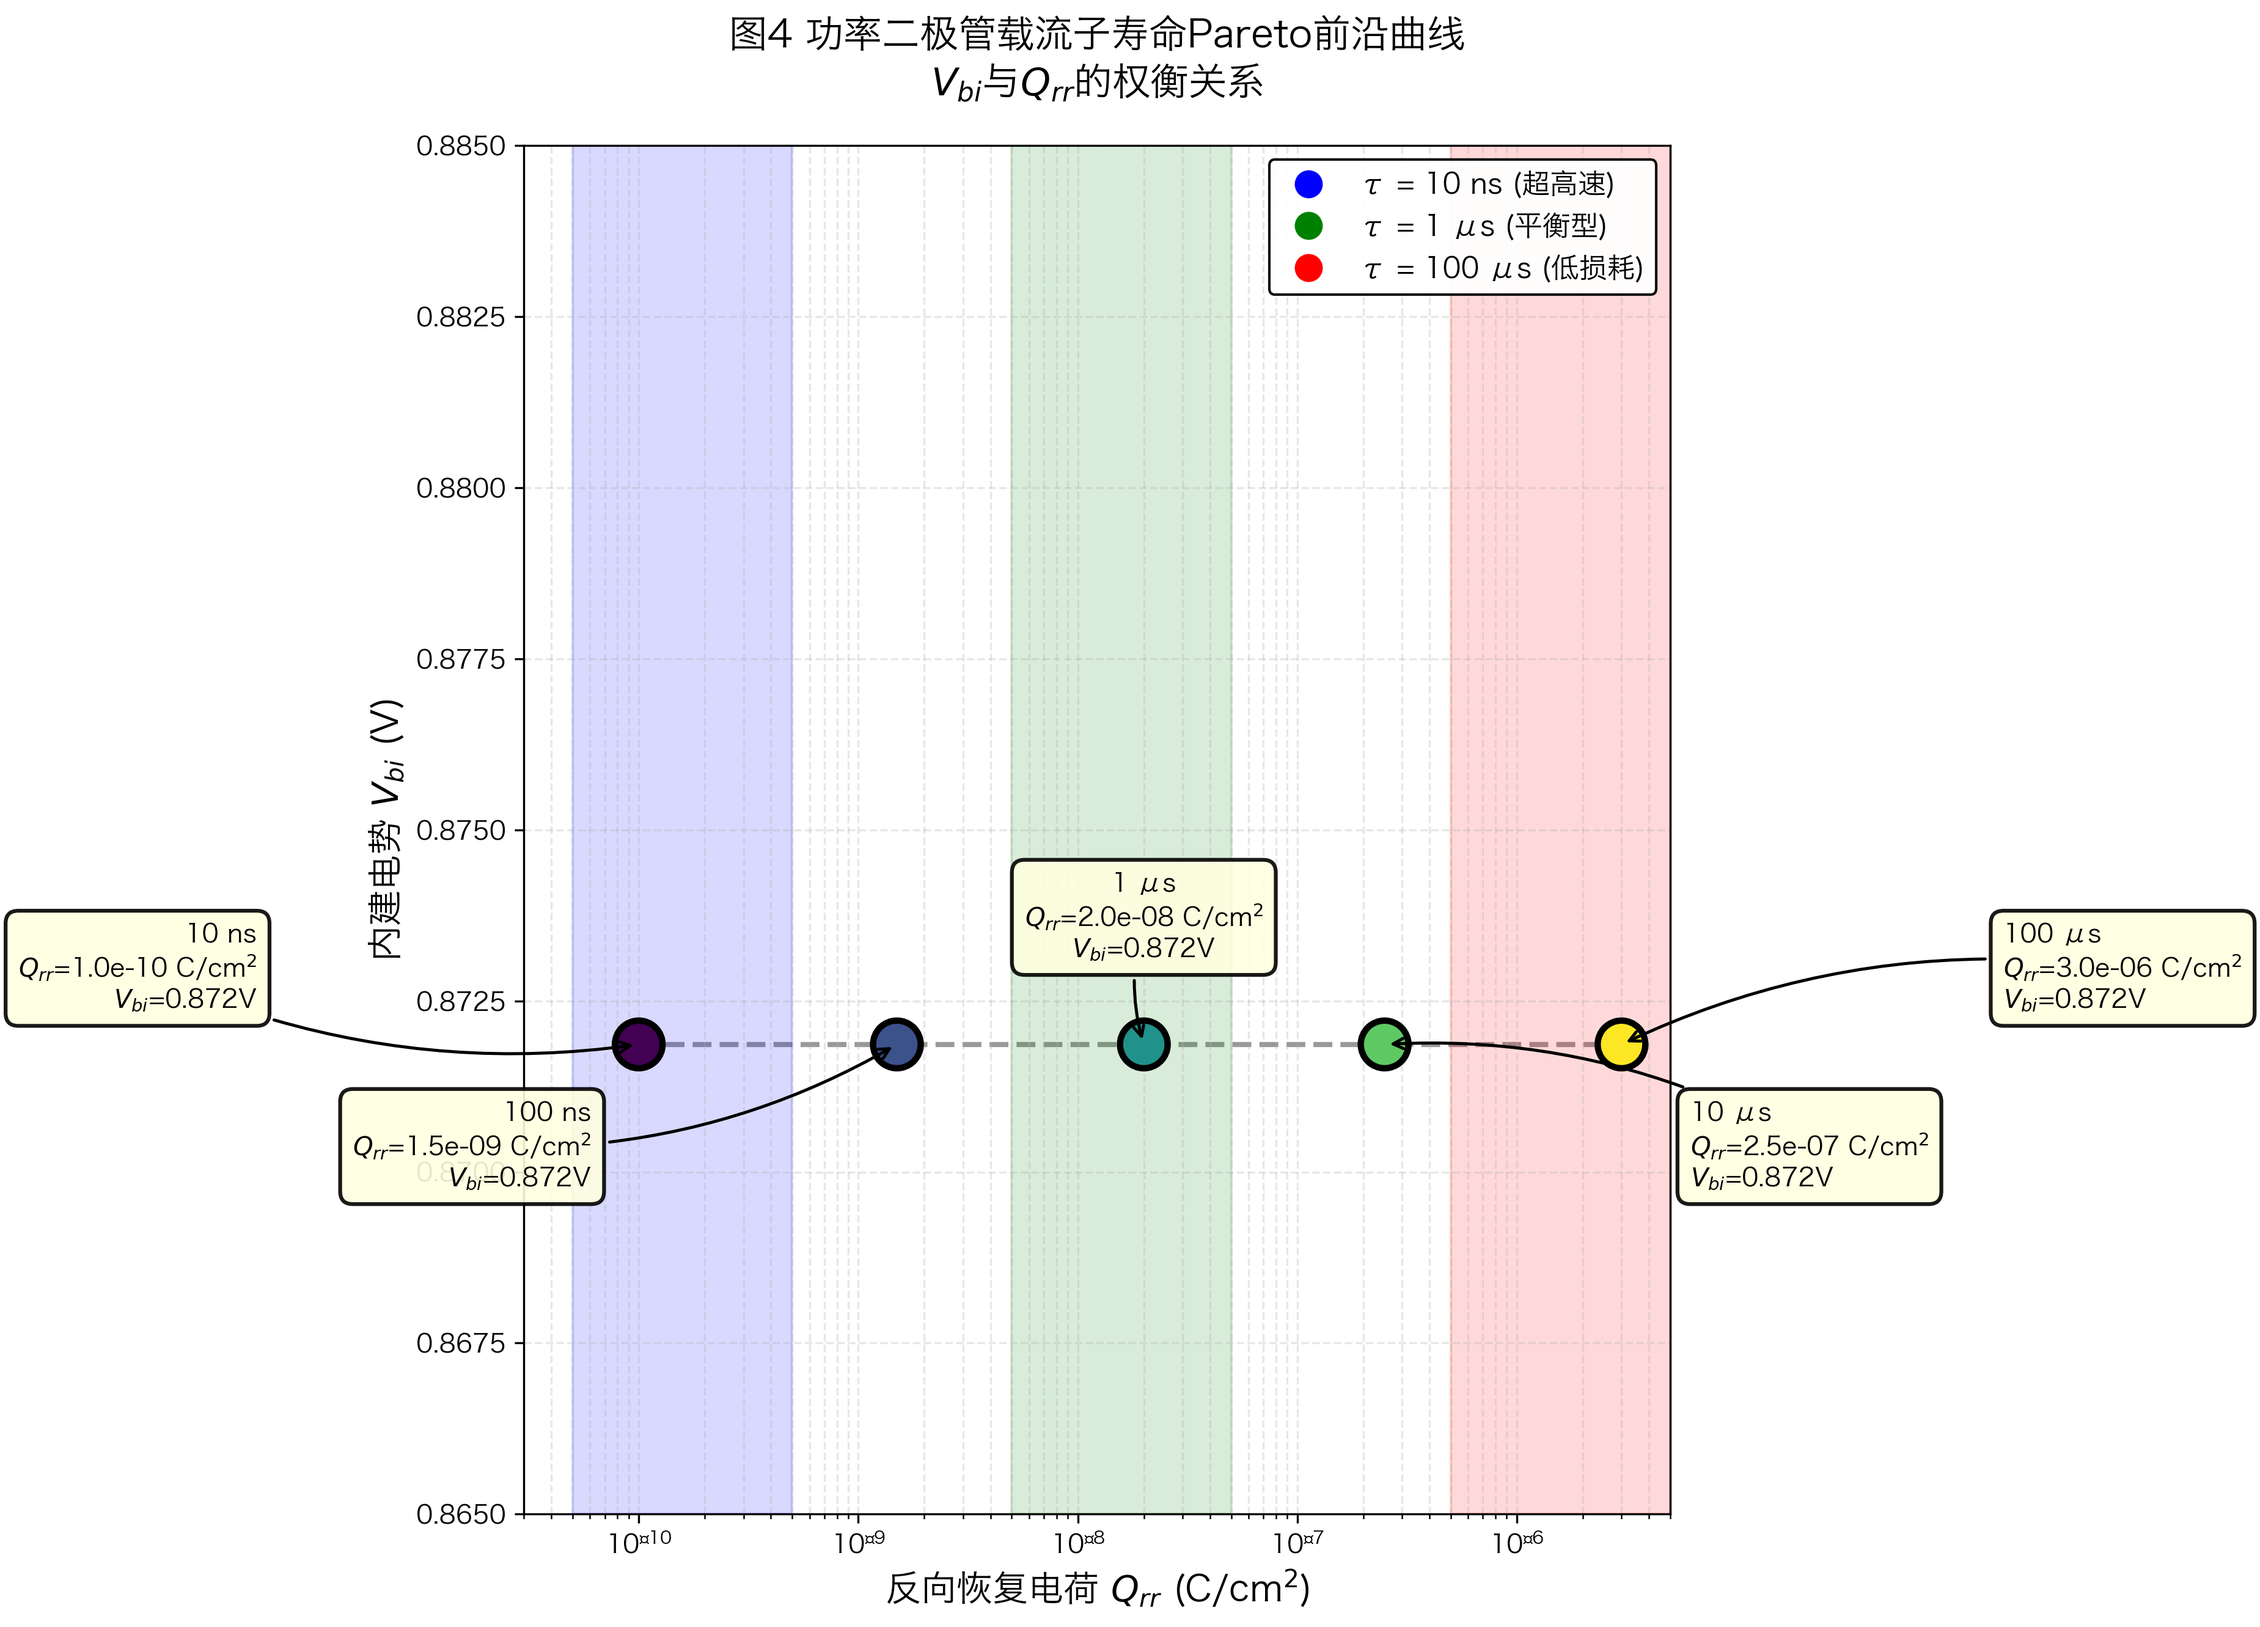
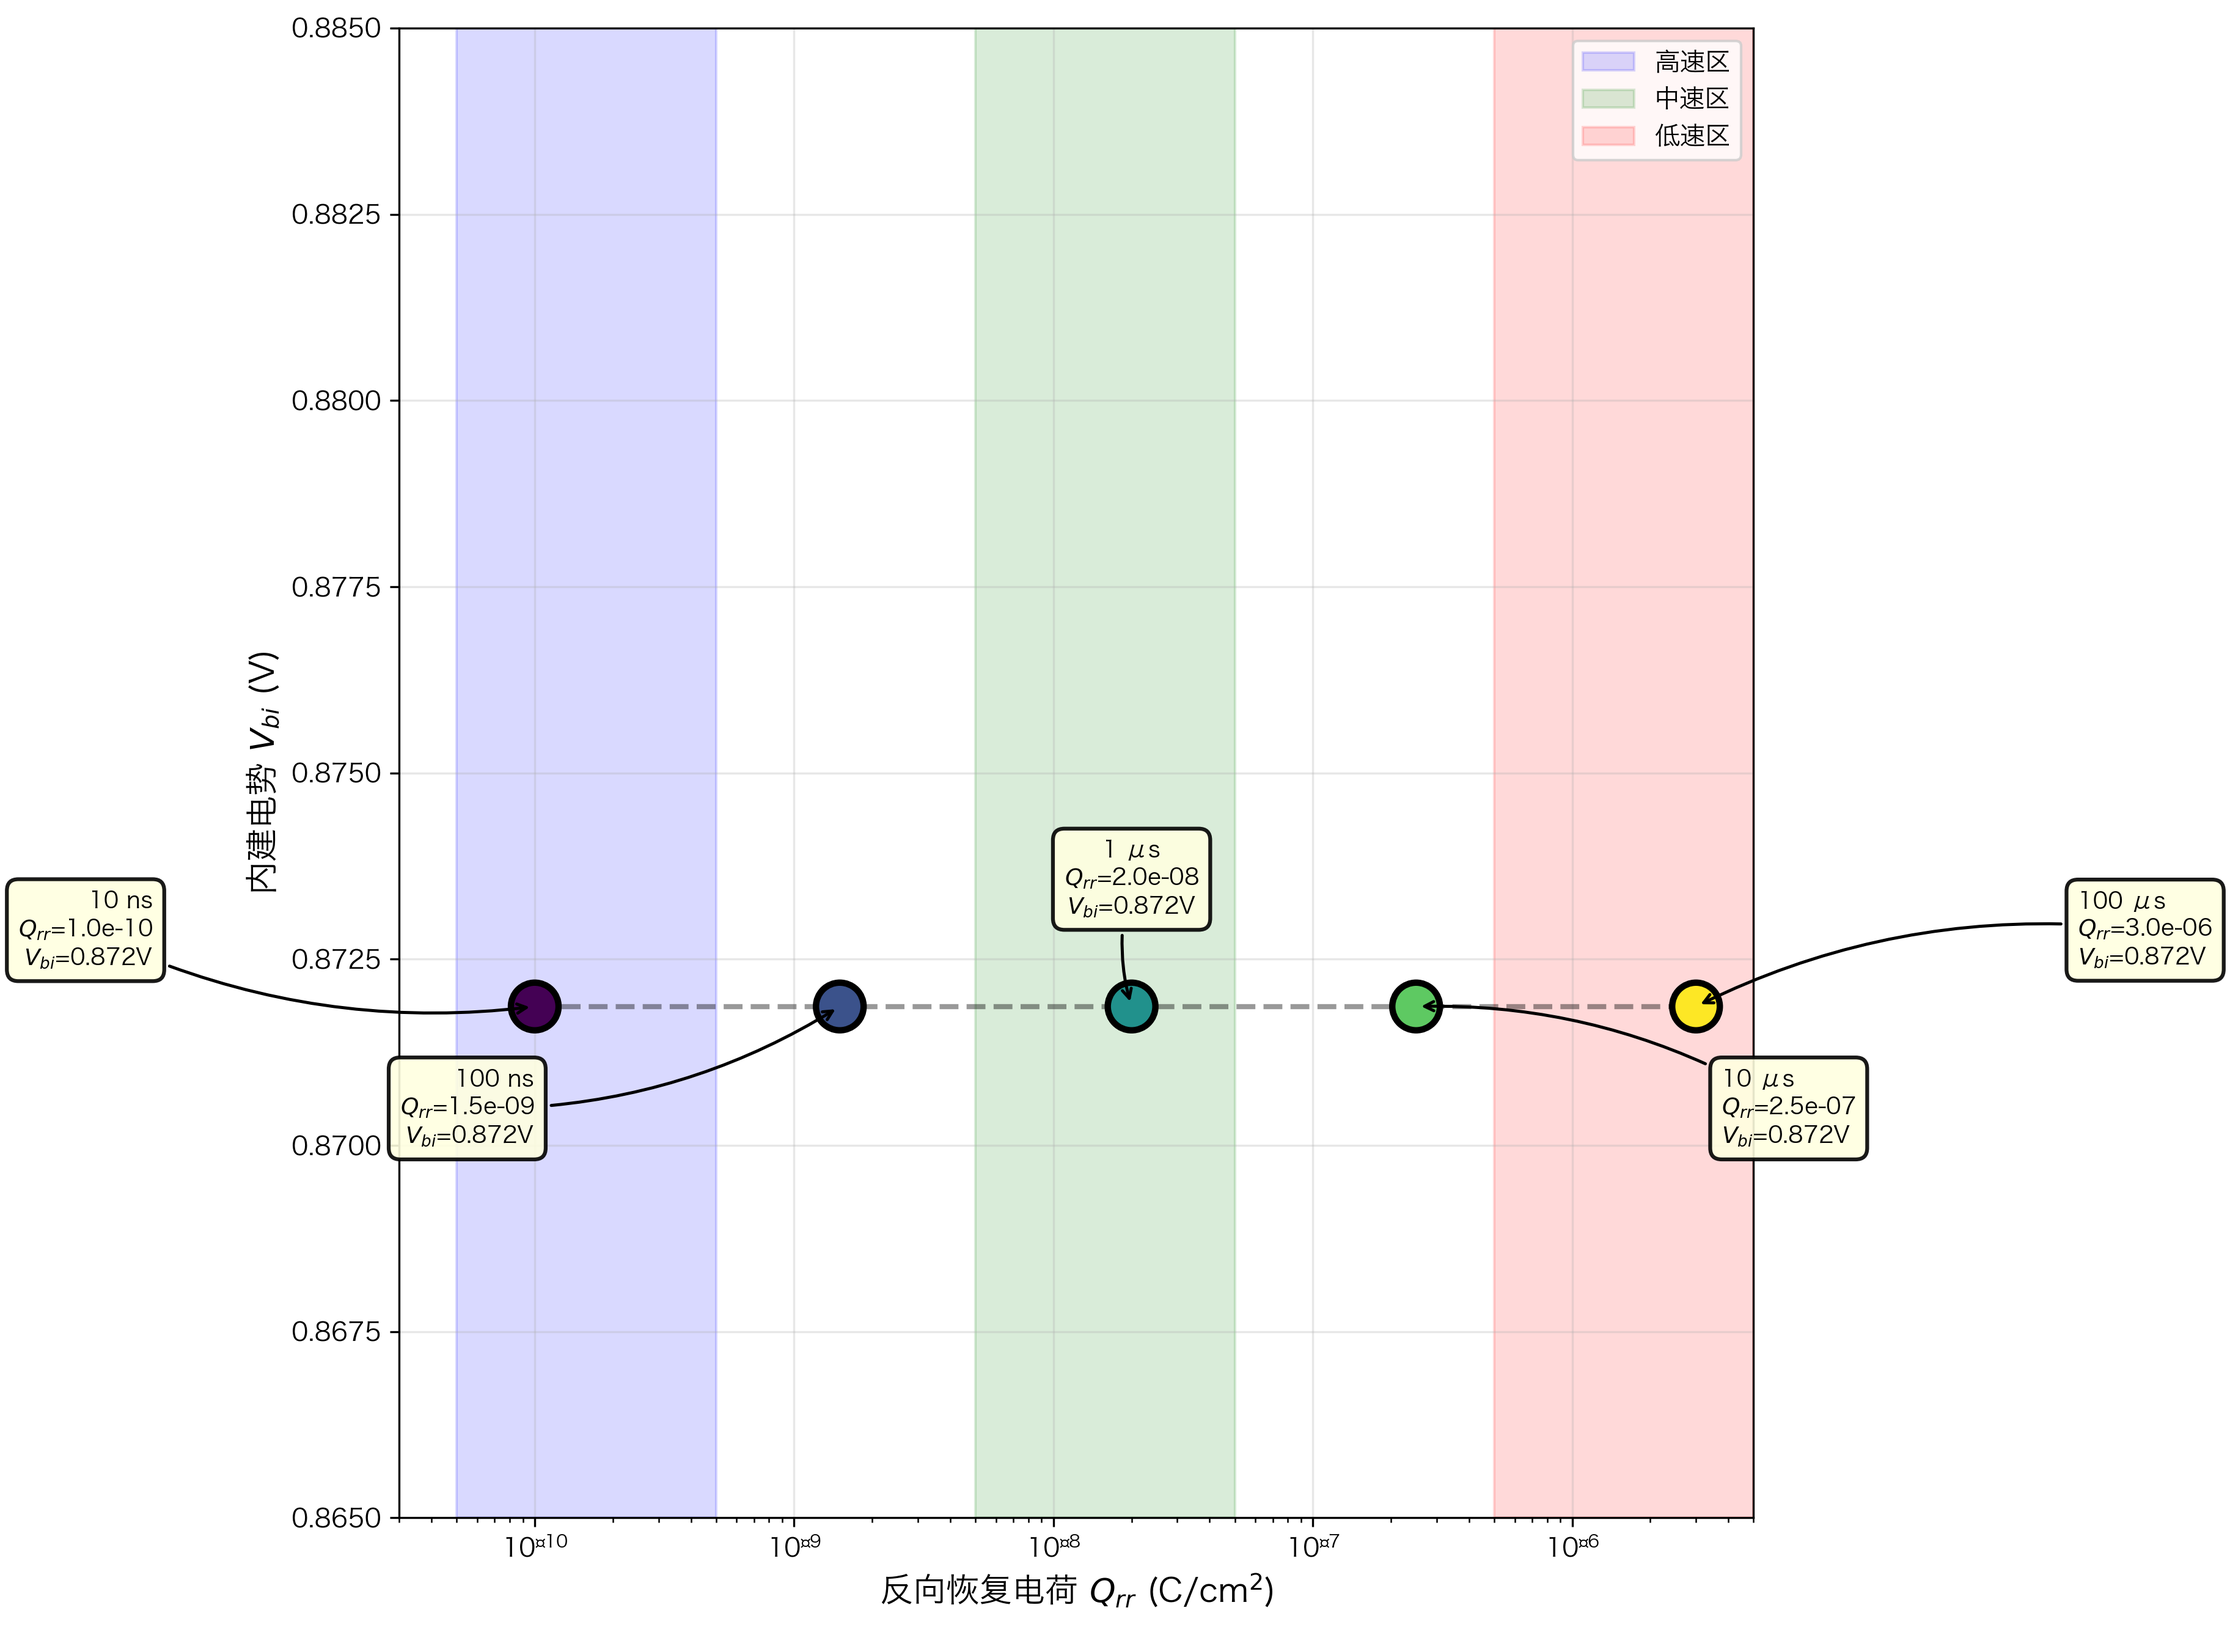
Regenerate all figures without embedded titles
- Removed all matplotlib set_title() calls from figure generation
- Figures now only contain axis labels and data, no titles
- Titles are exclusively in draft.md as Markdown captions
- This allows proper LaTeX figure caption formatting
- Updated regenerate_figures_no_title.py script

Changed region(s): [[0.125, 0.0, 0.8748, 0.9977], [0.0, 0.4677, 0.125, 0.6548], [0.8435, 0.5301, 0.9997, 0.6548]]

diff --git a/workspace/plan1/regenerate_figures_no_title.py b/workspace/plan1/regenerate_figures_no_title.py
@@ -1,0 +1,262 @@
+#!/usr/bin/env python3
+"""
+重新生成论文图表 - 去掉 matplotlib 中的标题，标题只在 Markdown 中
+"""
+
+import sys
+import os
+import numpy as np
+import matplotlib.pyplot as plt
+import json
+
+# 设置中文字体
+plt.rcParams['font.sans-serif'] = ['Hiragino Sans GB', 'SimHei', 'DejaVu Sans']
+plt.rcParams['axes.unicode_minus'] = False
+
+# 读取数据
+with open('data/final/lifetime_results.json', 'r') as f:
+    lifetime_results = json.load(f)
+
+with open('data/final/doping_results.json', 'r') as f:
+    doping_results = json.load(f)
+
+print("重新生成论文图表（去掉标题，只保留坐标轴标签）...")
+
+# ============================================
+# 图1：一维PN结二极管结构示意图
+# ============================================
+fig, ax = plt.subplots(figsize=(10, 6))
+
+# P+区
+p_region = plt.Rectangle((0, 0), 0.4, 1, linewidth=2, 
+                         edgecolor='black', facecolor='lightblue', alpha=0.7)
+ax.add_patch(p_region)
+ax.text(0.2, 0.5, 'P+\n$N_A = 10^{16}-10^{18}$ cm$^{-3}$', 
+        ha='center', va='center', fontsize=11, fontweight='bold')
+
+# N区
+n_region = plt.Rectangle((0.4, 0), 0.6, 1, linewidth=2, 
+                         edgecolor='black', facecolor='lightyellow', alpha=0.7)
+ax.add_patch(n_region)
+ax.text(0.7, 0.5, 'N\n$N_D = 10^{19}$ cm$^{-3}$', 
+        ha='center', va='center', fontsize=11, fontweight='bold')
+
+# 结位置
+ax.axvline(x=0.4, color='red', linewidth=3, linestyle='--')
+ax.text(0.4, 1.05, 'PN结', ha='center', fontsize=10, color='red', fontweight='bold')
+
+# 电极
+ax.plot([0, 0], [0.3, 0.7], 'k-', linewidth=4)
+ax.text(-0.05, 0.5, '阳极\n(A)', ha='right', va='center', fontsize=10, fontweight='bold')
+ax.plot([1, 1], [0.3, 0.7], 'k-', linewidth=4)
+ax.text(1.05, 0.5, '阴极\n(K)', ha='left', va='center', fontsize=10, fontweight='bold')
+
+# 尺寸标注
+ax.annotate('', xy=(0, -0.1), xytext=(1, -0.1),
+            arrowprops=dict(arrowstyle='<->', color='black', lw=2))
+ax.text(0.5, -0.15, '100 μm', ha='center', fontsize=10)
+
+ax.set_xlim(-0.15, 1.15)
+ax.set_ylim(-0.25, 1.2)
+ax.set_aspect('equal')
+ax.axis('off')
+# 不设置标题！标题在 Markdown 中
+
+plt.tight_layout()
+plt.savefig('figures/final/fig1_structure.png', dpi=300, bbox_inches='tight')
+print("✓ 图1（无标题）: fig1_structure.png")
+plt.close()
+
+# ============================================
+# 图2：载流子寿命影响（4子图，无总标题）
+# ============================================
+fig, axes = plt.subplots(2, 2, figsize=(14, 12))
+
+taus = [r['tau'] for r in lifetime_results]
+vfs = [r['vf'] for r in lifetime_results]
+currents = [r['current_density_A_cm2'] for r in lifetime_results]
+rons = [r['r_on_ohm_cm2'] for r in lifetime_results]
+qrrs = [r['qrr_C_cm2'] for r in lifetime_results]
+
+# (a) 内建电势
+ax = axes[0, 0]
+ax.semilogx(taus, vfs, 'bo-', linewidth=2.5, markersize=10)
+ax.set_xlabel('载流子寿命 τ (s)', fontsize=12)
+ax.set_ylabel('内建电势 $V_{bi}$ (V)', fontsize=12)
+ax.text(0.05, 0.95, '(a)', transform=ax.transAxes, fontsize=14, fontweight='bold')
+ax.grid(True, alpha=0.4)
+ax.set_ylim([0.85, 0.90])
+
+# (b) 正向电流密度
+ax = axes[0, 1]
+ax.loglog(taus, currents, 'rs-', linewidth=2.5, markersize=10)
+ax.set_xlabel('载流子寿命 τ (s)', fontsize=12)
+ax.set_ylabel('正向电流密度 $J_F$ (A/cm$^2$)', fontsize=12)
+ax.text(0.05, 0.95, '(b)', transform=ax.transAxes, fontsize=14, fontweight='bold')
+ax.grid(True, alpha=0.4)
+
+# (c) 反向恢复电荷
+ax = axes[1, 0]
+ax.loglog(taus, qrrs, 'g^-', linewidth=2.5, markersize=10)
+ax.set_xlabel('载流子寿命 τ (s)', fontsize=12)
+ax.set_ylabel('反向恢复电荷 $Q_{rr}$ (C/cm$^2$)', fontsize=12)
+ax.text(0.05, 0.95, '(c)', transform=ax.transAxes, fontsize=14, fontweight='bold')
+ax.grid(True, alpha=0.4)
+
+# (d) 导通电阻
+ax = axes[1, 1]
+ax.loglog(taus, rons, 'mv-', linewidth=2.5, markersize=10)
+ax.set_xlabel('载流子寿命 τ (s)', fontsize=12)
+ax.set_ylabel('导通电阻 $R_{on}$ (Ω·cm$^2$)', fontsize=12)
+ax.text(0.05, 0.95, '(d)', transform=ax.transAxes, fontsize=14, fontweight='bold')
+ax.grid(True, alpha=0.4)
+
+# 不设置总标题！
+plt.tight_layout()
+plt.savefig('figures/final/fig2_lifetime_effects.png', dpi=300, bbox_inches='tight')
+print("✓ 图2（无总标题）: fig2_lifetime_effects.png")
+plt.close()
+
+# ============================================
+# 图3：掺杂浓度影响（3子图，无总标题）
+# ============================================
+fig, axes = plt.subplots(1, 3, figsize=(18, 6))
+
+dopings = [r['p_doping'] for r in doping_results]
+vbis = [r['V_bi'] for r in doping_results]
+rons_d = [r['r_on_ohm_cm2'] for r in doping_results]
+bvs = [r['breakdown_voltage_V'] for r in doping_results]
+
+# (a) 内建电势
+ax = axes[0]
+ax.semilogx(dopings, vbis, 'co-', linewidth=2.5, markersize=10)
+ax.set_xlabel('P区掺杂浓度 $N_A$ (cm$^{-3}$)', fontsize=12)
+ax.set_ylabel('内建电势 $V_{bi}$ (V)', fontsize=12)
+ax.text(0.05, 0.95, '(a)', transform=ax.transAxes, fontsize=14, fontweight='bold')
+ax.grid(True, alpha=0.4)
+
+# (b) 导通电阻
+ax = axes[1]
+ax.loglog(dopings, rons_d, 'yv-', linewidth=2.5, markersize=10)
+ax.set_xlabel('P区掺杂浓度 $N_A$ (cm$^{-3}$)', fontsize=12)
+ax.set_ylabel('导通电阻 $R_{on}$ (Ω·cm$^2$)', fontsize=12)
+ax.text(0.05, 0.95, '(b)', transform=ax.transAxes, fontsize=14, fontweight='bold')
+ax.grid(True, alpha=0.4)
+
+# (c) 击穿电压
+ax = axes[2]
+ax.loglog(dopings, bvs, 'bs-', linewidth=2.5, markersize=10)
+ax.set_xlabel('P区掺杂浓度 $N_A$ (cm$^{-3}$)', fontsize=12)
+ax.set_ylabel('击穿电压 $BV$ (V)', fontsize=12)
+ax.text(0.05, 0.95, '(c)', transform=ax.transAxes, fontsize=14, fontweight='bold')
+ax.grid(True, alpha=0.4)
+
+# 不设置总标题！
+plt.tight_layout()
+plt.savefig('figures/final/fig3_doping_effects.png', dpi=300, bbox_inches='tight')
+print("✓ 图3（无总标题）: fig3_doping_effects.png")
+plt.close()
+
+# ============================================
+# 图4：Pareto前沿曲线（无标题）
+# ============================================
+fig, ax = plt.subplots(figsize=(12, 9))
+
+qrrs_pareto = [r['qrr_C_cm2'] for r in lifetime_results]
+vfs_pareto = [r['vf'] for r in lifetime_results]
+taus_labels = ['10 ns', '100 ns', '1 μs', '10 μs', '100 μs']
+
+ax.set_xscale('log')
+
+colors = plt.cm.viridis(np.linspace(0, 1, len(taus)))
+scatter = ax.scatter(qrrs_pareto, vfs_pareto, s=350, c=colors, 
+                    edgecolors='black', linewidth=2.5, zorder=5)
+ax.plot(qrrs_pareto, vfs_pareto, 'k--', alpha=0.4, linewidth=2)
+
+# 添加标注
+annotations = [
+    {'idx': 0, 'offset': (-150, 30), 'ha': 'right'},
+    {'idx': 1, 'offset': (-120, -40), 'ha': 'right'},
+    {'idx': 2, 'offset': (0, 50), 'ha': 'center'},
+    {'idx': 3, 'offset': (120, -40), 'ha': 'left'},
+    {'idx': 4, 'offset': (150, 30), 'ha': 'left'},
+]
+
+for ann in annotations:
+    idx = ann['idx']
+    q = qrrs_pareto[idx]
+    v = vfs_pareto[idx]
+    tau_label = taus_labels[idx]
+    textstr = f"{tau_label}\n$Q_{{rr}}$={q:.1e}\n$V_{{bi}}$={v:.3f}V"
+    ax.annotate(textstr, xy=(q, v), xytext=ann['offset'],
+                textcoords='offset points', ha=ann['ha'], va='center',
+                fontsize=9, fontweight='bold',
+                bbox=dict(boxstyle='round,pad=0.5', facecolor='lightyellow', 
+                         edgecolor='black', linewidth=1.5, alpha=0.9),
+                arrowprops=dict(arrowstyle='->', connectionstyle='arc3,rad=0.15',
+                              color='black', linewidth=1.2), zorder=10)
+
+# 区域标注
+ax.axvspan(5e-11, 5e-10, alpha=0.15, color='blue', label='高速区')
+ax.axvspan(5e-9, 5e-8, alpha=0.15, color='green', label='中速区')
+ax.axvspan(5e-7, 5e-6, alpha=0.15, color='red', label='低速区')
+
+ax.set_xlabel('反向恢复电荷 $Q_{rr}$ (C/cm$^2$)', fontsize=13)
+ax.set_ylabel('内建电势 $V_{bi}$ (V)', fontsize=13)
+ax.grid(True, alpha=0.3)
+ax.set_xlim(3e-11, 5e-6)
+ax.set_ylim(0.865, 0.885)
+ax.legend(loc='upper right', fontsize=10)
+# 不设置标题！标题在 Markdown 中
+
+plt.tight_layout()
+plt.savefig('figures/final/fig4_pareto_front.png', dpi=300, bbox_inches='tight')
+print("✓ 图4（无标题）: fig4_pareto_front.png")
+plt.close()
+
+# ============================================
+# 图5：掺杂浓度权衡（无标题）
+# ============================================
+fig, ax1 = plt.subplots(figsize=(12, 8))
+
+line1 = ax1.loglog(dopings, rons_d, 'ro-', linewidth=3, markersize=12, 
+                  markerfacecolor='lightcoral', markeredgecolor='darkred', 
+                  markeredgewidth=2, label='$R_{on}$', zorder=5)
+ax1.set_xlabel('P区掺杂浓度 $N_A$ (cm$^{-3}$)', fontsize=13)
+ax1.set_ylabel('导通电阻 $R_{on}$ (Ω·cm$^2$)', fontsize=13, color='red')
+ax1.tick_params(axis='y', labelcolor='red', labelsize=11)
+ax1.grid(True, alpha=0.4)
+
+ax2 = ax1.twinx()
+line2 = ax2.loglog(dopings, bvs, 'bs--', linewidth=3, markersize=10, 
+                  markerfacecolor='lightblue', markeredgecolor='darkblue', 
+                  markeredgewidth=2, label='$BV$', zorder=4)
+ax2.set_ylabel('击穿电压 $BV$ (V)', fontsize=13, color='blue')
+ax2.tick_params(axis='y', labelcolor='blue', labelsize=11)
+ax2.set_ylim([1, 5000])
+
+# 数据标注
+for i, (d, r, b) in enumerate(zip(dopings, rons_d, bvs)):
+    offset_r = 20 if i % 2 == 0 else -50
+    ax1.annotate(f'{r:.2e}', xy=(d, r), xytext=(-40, offset_r),
+                textcoords='offset points', fontsize=9, color='red',
+                bbox=dict(boxstyle='round,pad=0.3', facecolor='white', edgecolor='red', alpha=0.8))
+    offset_b = 30 if i % 2 == 1 else -40
+    ax2.annotate(f'{b:.0f}V', xy=(d, b), xytext=(40, offset_b),
+                textcoords='offset points', fontsize=9, color='blue',
+                bbox=dict(boxstyle='round,pad=0.3', facecolor='white', edgecolor='blue', alpha=0.8))
+
+ax1.axvspan(1e16, 1e17, alpha=0.2, color='green', label='最优区')
+lines1, labels1 = ax1.get_legend_handles_labels()
+lines2, labels2 = ax2.get_legend_handles_labels()
+ax1.legend(lines1 + lines2, labels1 + labels2, loc='center left', fontsize=10)
+# 不设置标题！标题在 Markdown 中
+
+plt.tight_layout()
+plt.savefig('figures/final/fig5_doping_tradeoff.png', dpi=300, bbox_inches='tight')
+print("✓ 图5（无标题）: fig5_doping_tradeoff.png")
+plt.close()
+
+print("\n" + "="*70)
+print("✅ 所有图表重新生成完成！（图片无标题，标题在Markdown中）")
+print("="*70)
